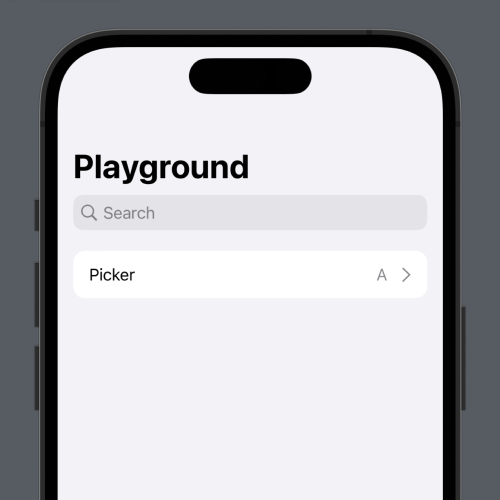
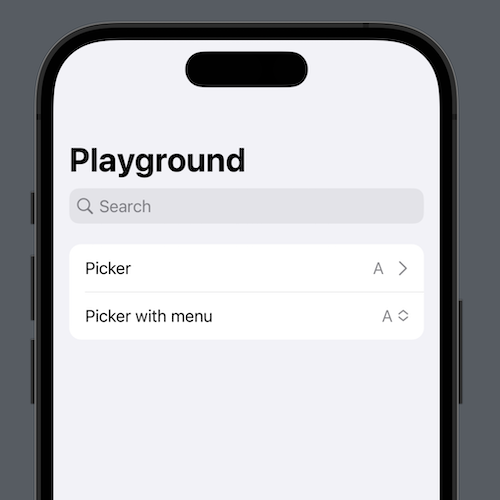
initial support for menu picker

diff --git a/Sources/Views/SettingPicker.swift b/Sources/Views/SettingPicker.swift
@@ -45,6 +45,7 @@ public struct SettingPicker: View, Setting {
         public var verticalPadding = CGFloat(14)
         public var horizontalPadding = CGFloat(16)
         public var pageNavigationTitleDisplayMode = SettingPage.NavigationTitleDisplayMode.inline
+        public var pickerDisplayMode = SettingPage.PickerDisplayMode.navigation
         public var groupHeader: String?
         public var groupFooter: String?
         public var groupHorizontalPadding = CGFloat(16)
@@ -58,6 +59,7 @@ public struct SettingPicker: View, Setting {
             verticalPadding: CGFloat = CGFloat(14),
             horizontalPadding: CGFloat = CGFloat(16),
             pageNavigationTitleDisplayMode: SettingPage.NavigationTitleDisplayMode = SettingPage.NavigationTitleDisplayMode.inline,
+            pickerDisplayMode: SettingPage.PickerDisplayMode = SettingPage.PickerDisplayMode.navigation,
             groupHeader: String? = nil,
             groupFooter: String? = nil,
             groupHorizontalPadding: CGFloat = CGFloat(16),
@@ -70,6 +72,7 @@ public struct SettingPicker: View, Setting {
             self.verticalPadding = verticalPadding
             self.horizontalPadding = horizontalPadding
             self.pageNavigationTitleDisplayMode = pageNavigationTitleDisplayMode
+            self.pickerDisplayMode = pickerDisplayMode
             self.groupHeader = groupHeader
             self.groupFooter = groupFooter
             self.groupHorizontalPadding = groupHorizontalPadding
@@ -106,41 +109,67 @@ struct SettingPickerView: View {
     @State var isActive = false
 
     var body: some View {
-        Button {
-            isActive = true
-        } label: {
+        switch choicesConfiguration.pickerDisplayMode {
+        case .navigation:
+            Button {
+                isActive = true
+            } label: {
+                HStack(spacing: horizontalSpacing) {
+                    Text(title)
+                        .fixedSize(horizontal: false, vertical: true)
+                        .frame(maxWidth: .infinity, alignment: .leading)
+                        .padding(.vertical, verticalPadding)
+
+                    if choices.indices.contains(selectedIndex) {
+                        let selectedChoice = choices[selectedIndex]
+
+                        Text(selectedChoice)
+                            .foregroundColor(SettingTheme.secondaryLabelColor)
+                    }
+
+                    Image(systemName: "chevron.forward")
+                        .foregroundColor(SettingTheme.secondaryLabelColor)
+                }
+                .padding(.horizontal, horizontalPadding)
+                .accessibilityElement(children: .combine)
+            }
+            .buttonStyle(.row)
+            .background {
+                NavigationLink(isActive: $isActive) {
+                    SettingPickerChoicesView(
+                        title: title,
+                        choices: choices,
+                        selectedIndex: $selectedIndex,
+                        choicesConfiguration: choicesConfiguration
+                    )
+                } label: {
+                    EmptyView()
+                }
+                .opacity(0)
+            }
+            
+        case .menu:
             HStack(spacing: horizontalSpacing) {
                 Text(title)
                     .fixedSize(horizontal: false, vertical: true)
                     .frame(maxWidth: .infinity, alignment: .leading)
                     .padding(.vertical, verticalPadding)
 
-                if choices.indices.contains(selectedIndex) {
-                    let selectedChoice = choices[selectedIndex]
-
-                    Text(selectedChoice)
-                        .foregroundColor(SettingTheme.secondaryLabelColor)
+                Picker("", selection: $selectedIndex) {
+                    ForEach(Array(zip(choices.indices, choices)), id: \.1) { index, choice in
+                        Text(choice).tag(index)
+                    }
                 }
-
-                Image(systemName: "chevron.forward")
-                    .foregroundColor(SettingTheme.secondaryLabelColor)
+                .pickerStyle(.menu)
+                #if os(iOS)
+                .padding(.trailing, -horizontalPadding + 2)
+                #else
+                .padding(.trailing, -2)
+                #endif
+                .tint(SettingTheme.secondaryLabelColor)
             }
             .padding(.horizontal, horizontalPadding)
             .accessibilityElement(children: .combine)
-        }
-        .buttonStyle(.row)
-        .background {
-            NavigationLink(isActive: $isActive) {
-                SettingPickerChoicesView(
-                    title: title,
-                    choices: choices,
-                    selectedIndex: $selectedIndex,
-                    choicesConfiguration: choicesConfiguration
-                )
-            } label: {
-                EmptyView()
-            }
-            .opacity(0)
         }
     }
 }

diff --git a/Example/SettingExample/PreferencesView.swift b/Example/SettingExample/PreferencesView.swift
@@ -158,7 +158,8 @@ struct PreferencesView: View {
                                         "Every Day",
                                         "Every Week"
                                     ],
-                                    selectedIndex: $model.notificationIndex
+                                    selectedIndex: $model.notificationIndex,
+                                    choicesConfiguration: .init(pickerDisplayMode: .menu)
                                 )
                             }
 

diff --git a/Sources/Views/SettingPage.swift b/Sources/Views/SettingPage.swift
@@ -68,6 +68,11 @@ public struct SettingPage: Setting {
         case inline
         case large
     }
+    
+    public enum PickerDisplayMode {
+        case navigation
+        case menu
+    }
 }
 
 /// Convenience modifiers.

diff --git a/README.md b/README.md
@@ -184,6 +184,14 @@ struct PlaygroundView: View {
                         choices: ["A", "B", "C", "D"],
                         selectedIndex: $index
                     )
+                    SettingPicker(
+                        title: "Picker with menu",
+                        choices: ["A", "B", "C", "D"],
+                        selectedIndex: $index,
+                        choicesConfiguration: .init(
+                            pickerDisplayMode: .menu
+                        )
+                    )
                 }
             }
         }
